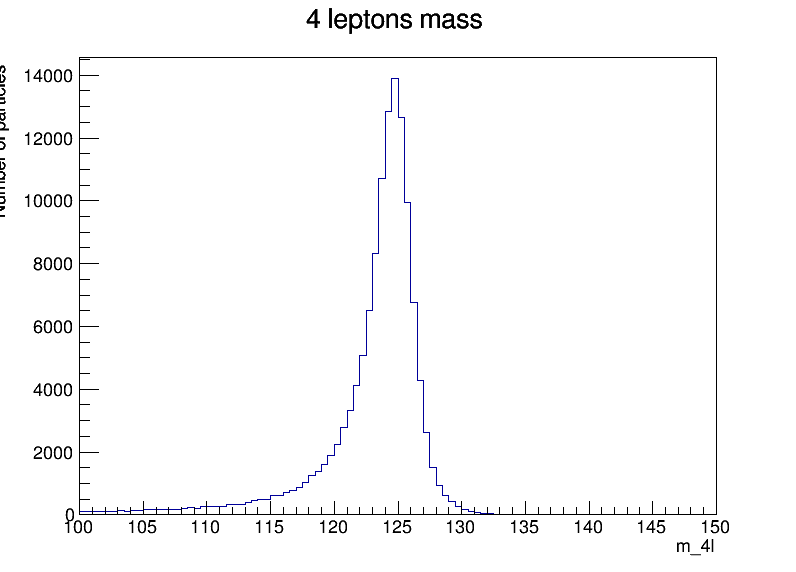
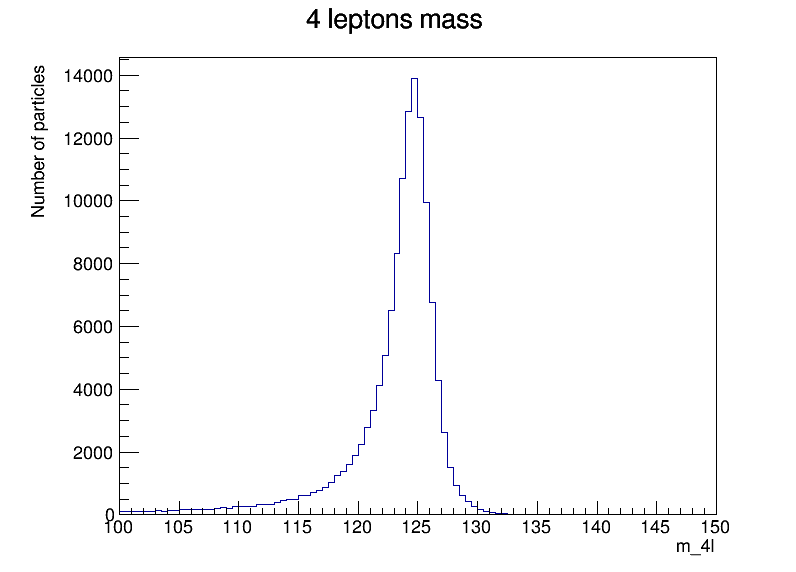
Zad2: margine

diff --git a/Vjezbe_6/Analyzer.cpp b/Vjezbe_6/Analyzer.cpp
@@ -71,7 +71,7 @@ void Analyzer::PlotHistogram()
 
     /******* PANEL 1 (gore lijevo): LepPt *******/
     c->cd(1);
-    gPad->SetLeftMargin(0.10);
+    gPad->SetLeftMargin(0.15);
 
     h_LepPt[2]->GetXaxis()->SetTitle("Pt (GeV/c)");
     h_LepPt[2]->GetYaxis()->SetTitle("Number of particles");
@@ -93,7 +93,7 @@ void Analyzer::PlotHistogram()
    
     /******* PANEL 2 (gore desno): LepEta *******/
     c->cd(2);
-    gPad->SetLeftMargin(0.10);
+    gPad->SetLeftMargin(0.15);
     h_LepEta[2]->GetXaxis()->SetTitle("Eta");
     h_LepEta[2]->GetYaxis()->SetTitle("Number of particles");
     h_LepEta[2]->SetLineColor(kBlue+1);
@@ -114,7 +114,7 @@ void Analyzer::PlotHistogram()
 
     /******* PANEL 3 (dolje lijevo): LepPhi *******/
     c->cd(3);
-    gPad->SetLeftMargin(0.10);
+    gPad->SetLeftMargin(0.15);
     h_LepPhi[2]->GetXaxis()->SetTitle("Phi");
     h_LepPhi[2]->GetYaxis()->SetTitle("Number of particles");
     h_LepPhi[2]->SetLineColor(kBlue+1);
@@ -135,7 +135,7 @@ void Analyzer::PlotHistogram()
 
     /******* PANEL 4 (dolje desno): LepBDT *******/
     c->cd(4);
-    gPad->SetLeftMargin(0.10);
+    gPad->SetLeftMargin(0.15);
     h_LepBDT[2]->GetXaxis()->SetTitle("BDT");
     h_LepBDT[2]->GetYaxis()->SetTitle("Number of particles");
     h_LepBDT[2]->SetLineColor(kBlue+1);
@@ -159,7 +159,7 @@ void Analyzer::PlotHistogram()
     c->Print("4l-distribucije.png");
     
     c_H->cd();
-    gPad->SetLeftMargin(0.10);
+    gPad->SetLeftMargin(0.15);
     h_Higgs->SetTitle("4 leptons mass");
     h_Higgs->GetXaxis()->SetTitle("m_4l");
     h_Higgs->GetYaxis()->SetTitle("Number of particles");
